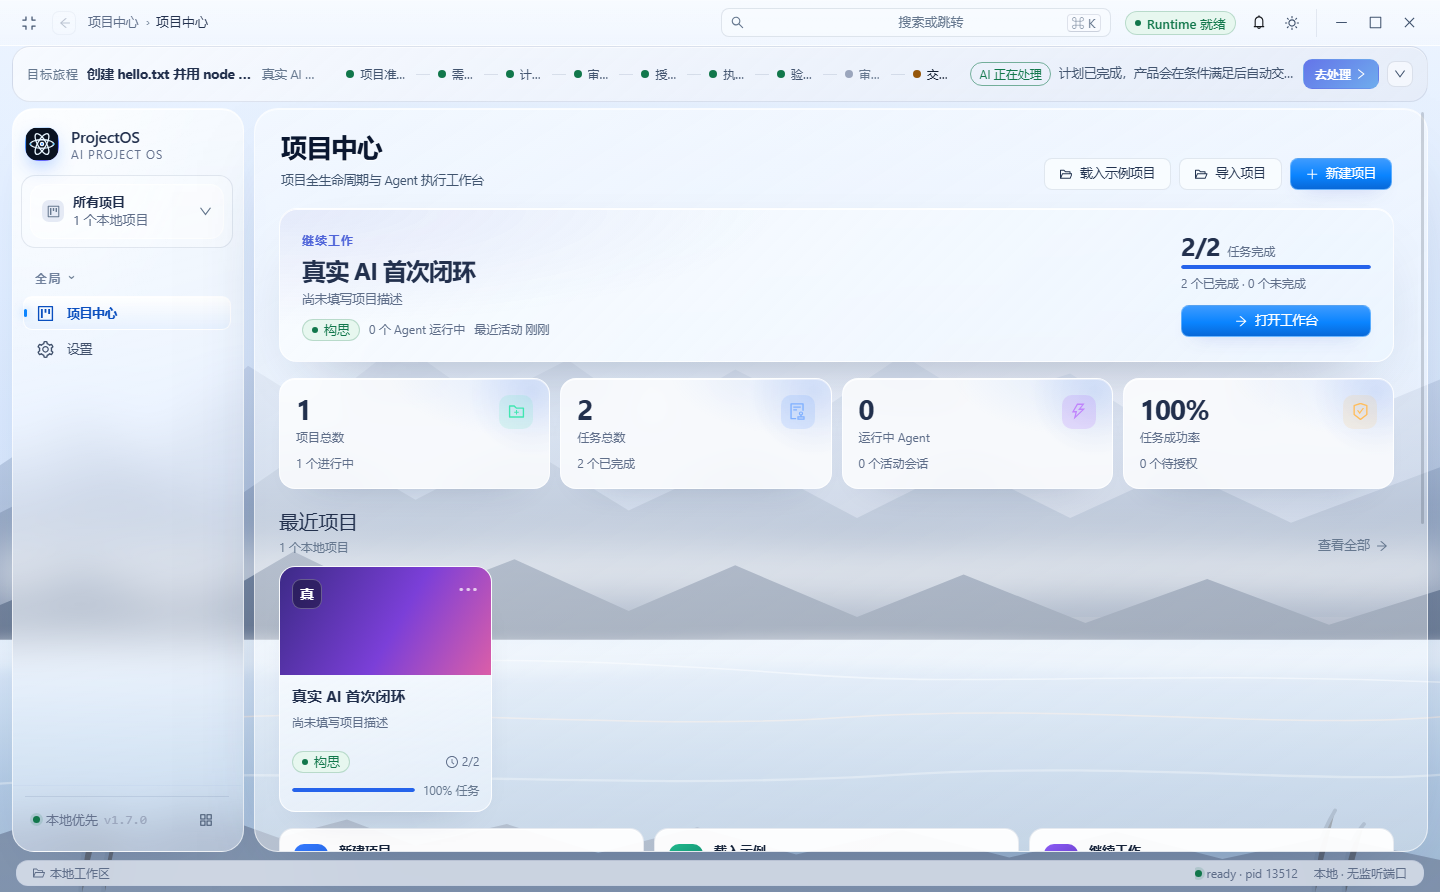
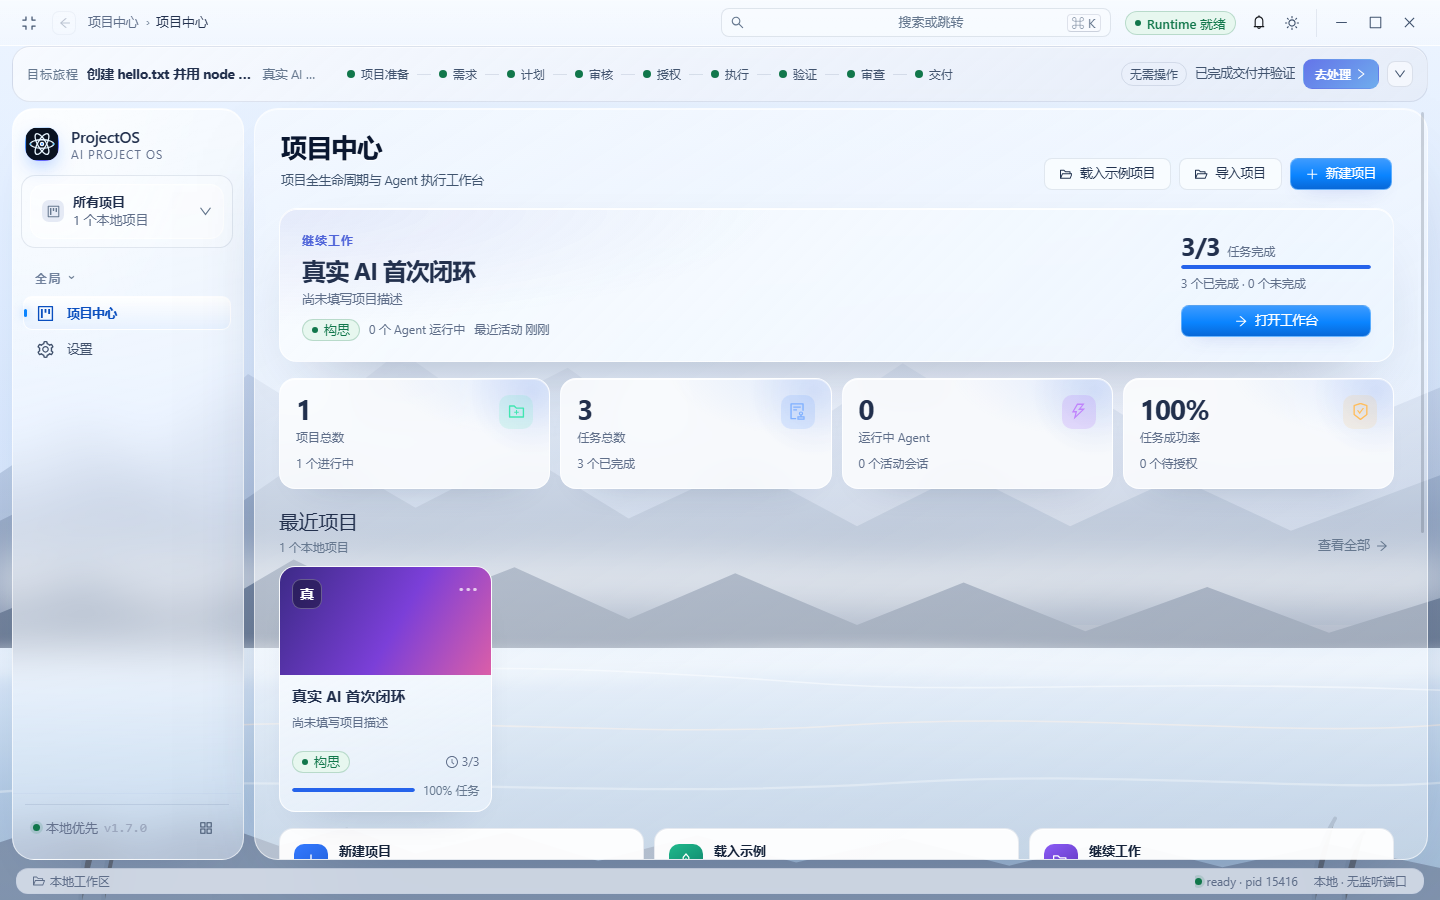
fix(journey): cache git readiness per project; first verified real delivery (ADR-0065)
Root cause of the interrupted delivery attempts: work.journey spawned a synchronous git rev-parse on every read (bar polls every 5s + event refreshes), starving the runtime event loop — pendingRequests 27→56, heartbeat misses, supervisor restart (ADR-0064). The check is now cached for 20s and skipped entirely once a worktree exists.

With that fix the real DeepSeek first-run chain completed end to end (PASS=20 FAIL=0): running → completed + node --test exit 0 + current review passed → deliveryStatus=verified, merge commit 8ced21b7d2975b85e169f902b569b0930619cd6f, delivery evidence art_01m63ka6cprrck428aczpds5pq, three runs (developer/tester/reviewer) and six real user approvals. Evidence in this commit: docs/adr/0065, docs/v2/p29-real-ai-timeline.json (stage timeline + final execution), docs/screenshots/p29-real-ai-journey.png (all nine stages done, 已完成交付并验证), updated evidence/addendum, planner expectations updated for the review task (ADR-0062).

diff --git a/apps/runtime/src/journey.ts b/apps/runtime/src/journey.ts
@@ -22,14 +22,41 @@ import type { PlanGrantService } from './plan-grant.js'
  * It never infers success from a plan's status, a task count or execution existence.
  */
 
+/**
+ * ADR-0065 — the journey projection must not spawn git on every request.
+ *
+ * Every journey read used to run a *synchronous* `git rev-parse`. The bar polls every 5s and also
+ * refreshes on business events, so during a run dozens of these reads queued: each one blocked the
+ * runtime event loop for a full process spawn (worse on Windows with AV scanning). The desktop log from
+ * a real attempt shows the consequence — `pendingRequests` 27 → 56 while heartbeats were missed and the
+ * supervisor restarted the runtime.
+ *
+ * The result is cached briefly; a workspace's "has a commit" state changes at most once (the baseline
+ * commit, ADR-0050), so a short TTL is enough and a commit cannot be missed for long.
+ */
+const GIT_HEAD_TTL_MS = 20_000
+const gitHeadCache = new Map<string, { value: boolean | null; at: number }>()
+
+export function resetJourneyGitCache(): void {
+  gitHeadCache.clear()
+}
+
 function gitHasCommit(rootPath: string): boolean | null {
-  if (!existsSync(join(rootPath, '.git'))) return null
-  try {
-    execFileSync('git', ['rev-parse', '--verify', 'HEAD'], { cwd: rootPath, encoding: 'utf8', stdio: 'pipe' })
-    return true
-  } catch {
-    return false
+  const cached = gitHeadCache.get(rootPath)
+  if (cached && Date.now() - cached.at < GIT_HEAD_TTL_MS) return cached.value
+  let value: boolean | null
+  if (!existsSync(join(rootPath, '.git'))) {
+    value = null
+  } else {
+    try {
+      execFileSync('git', ['rev-parse', '--verify', 'HEAD'], { cwd: rootPath, encoding: 'utf8', stdio: 'pipe' })
+      value = true
+    } catch {
+      value = false
+    }
   }
+  gitHeadCache.set(rootPath, { value, at: Date.now() })
+  return value
 }
 
 function selectPlan(store: SqliteStore, projectId: string): { plan: PlanDraft | null; kind: ProjectJourney['selection']['kind']; reason: string } {
@@ -124,7 +151,8 @@ export function projectJourney(input: {
     (execution?.status === 'paused' || execution?.status === 'failed' ? (humanItems.find((item) => item.kind === 'tool_approval') ?? null) : null)
   const approvalRef = toolApproval?.approvalId ?? toolApproval?.id ?? null
   const approvalExpired = Boolean(toolApproval?.stale)
-  const commit = gitHasCommit(project.rootPath)
+  // A plan with a worktree already passed the git-readiness question; skip the check entirely.
+  const commit = execution?.workspaceRef ? true : gitHasCommit(project.rootPath)
 
   const tasks = plan ? plan.createdTaskIds.map((taskId) => store.read.getTaskCard(taskId)).filter((card): card is NonNullable<typeof card> => Boolean(card)) : []
   const activeRun = (() => {

diff --git a/tests/planner.test.ts b/tests/planner.test.ts
@@ -151,8 +151,9 @@ describe('Phase 2B-1 AI Planner', () => {
     expect(draft.status).toBe('draft')
     expect(draft.generatedBy).toBe('provider')
     expect(draft.execution).toBeNull()
-    expect(draft.tasks).toHaveLength(3)
-    expect(draft.tasks.map((item) => item.key)).toEqual(['locate-button', 'apply-style', 'verify-style'])
+    expect(draft.tasks).toHaveLength(4)
+    expect(draft.tasks.some((task) => task.role === 'reviewer')).toBe(true)
+    expect(draft.tasks.map((item) => item.key)).toEqual(['locate-button', 'apply-style', 'verify-style', 'review'])
     expect(draft.tasks[1]!.dependsOn).toEqual(['locate-button'])
     expect(draft.tasks[0]!.requiredCapabilities).toEqual(['analyze', 'implement'])
     expect(draft.tasks.every((item) => Boolean(item.agentId) && !item.assignmentBlocked)).toBe(true)
@@ -244,8 +245,9 @@ describe('Phase 2B-1 AI Planner', () => {
       allowOverBudget: false,
     })
 
-    expect(draft.tasks).toHaveLength(5)
-    expect(draft.tasks.map((item) => item.role)).toEqual(['architect', 'developer', 'developer', 'developer', 'tester'])
+    expect(draft.tasks).toHaveLength(6)
+    expect(draft.tasks.some((task) => task.role === 'reviewer')).toBe(true)
+    expect(draft.tasks.map((item) => item.role)).toEqual(['architect', 'developer', 'developer', 'developer', 'tester', 'reviewer'])
     const parallel = draft.tasks.filter((item) => item.dependsOn.includes('scope-and-policy'))
     expect(parallel.map((item) => item.key)).toEqual(['data-model', 'api-guard'])
     expect(draft.tasks.find((item) => item.key === 'verify-rbac')?.dependsOn).toEqual(['data-model', 'frontend-admin'])
@@ -316,7 +318,8 @@ describe('Phase 2B-1 AI Planner', () => {
       allowOverBudget: false,
     })
 
-    expect(draft.tasks).toHaveLength(4)
+    expect(draft.tasks).toHaveLength(5)
+    expect(draft.tasks.some((task) => task.role === 'reviewer')).toBe(true)
     expect(draft.tasks[0]!.key).toBe('baseline')
     expect(draft.tasks[1]!.dependsOn).toContain('baseline')
     expect(draft.tasks[2]!.dependsOn).toContain('profile')

diff --git a/tests/p29-goal-journey.test.ts b/tests/p29-goal-journey.test.ts
@@ -2,13 +2,14 @@ import { afterEach, describe, expect, it } from 'vitest'
 import { now } from '@projectos/contracts'
 import { ActionCenter } from '../apps/runtime/src/action-center.js'
 import { PlanGrantService } from '../apps/runtime/src/plan-grant.js'
-import { projectJourney } from '../apps/runtime/src/journey.js'
+import { projectJourney, resetJourneyGitCache } from '../apps/runtime/src/journey.js'
 import { LifecycleService } from '../apps/runtime/src/lifecycle.js'
 import { createGitProject, logger, planWithTasks, setup } from './helpers/r1-fixture.js'
 
 const cleanups: Array<() => void> = []
 afterEach(() => {
   while (cleanups.length > 0) cleanups.pop()?.()
+  resetJourneyGitCache()
 })
 
 function task(key: string) {

diff --git a/docs/v2/evidence/p29-task1-task2-evidence.md b/docs/v2/evidence/p29-task1-task2-evidence.md
@@ -127,11 +127,27 @@ killing runtime {"reason":"heartbeat timeout"}
 - The window was offscreen in attempt 8, ruling out "the user closed it".
 - `pendingRequests` climbing 27 → 56 while no pong is processed proves the runtime **event loop was
   blocked for ≥30s**, not merely slow to write a pong.
-- ADR-0064 fixes the false-kill half (tolerate one miss, restart after two) and adds a policy unit test.
-- The blocking work itself is **OPEN**: profile the runtime around `agent run finished` / completion
-  evidence collection for synchronous git/sqlite/hash work on the main loop.
+- ADR-0064 fixed the false-kill half (tolerate one miss, restart after two) and added a policy unit test.
+- The blocking work was then found and fixed: **ADR-0065** — the journey projection spawned a synchronous
+  `git rev-parse` on every read (bar polls every 5s + event refreshes), which starved the loop. It is now
+  cached for 20s and skipped entirely once a worktree exists.
+- With that fix the same real scenario completed end to end (run 9, **PASS=20 FAIL=0**):
+  `running → completed + verify done + review done → delivery verified`, no heartbeat misses, six real
+  approvals, three runs (developer, tester, reviewer).
 
-State at the end of this evidence update: `deliveryStatus=verified` still **not reached**; the business
-gates (approval → review artifact → merge → post-merge verify) were never exercised to completion because
-the runtime restarted first. No claim of delivery closure is made.
+### Verified delivery (final)
+
+| Fact | Value |
+|---|---|
+| deliveryStatus | `verified` |
+| merge commit | `8ced21b7d2975b85e169f902b569b0930619cd6f` |
+| mergedAt | 1793269764463 |
+| delivery evidence artifact | `art_01m63ka6cprrck428aczpds5pq` |
+| verification command | `node --test --test-reporter=tap` (exit 0) |
+| review | 当前内容已通过审查 (`done`) |
+| runs | 3 (`run_…pssy…`, `run_…tks4…`, `run_…8hk1…`) |
+| approvals (real user decisions) | 6, all recorded with ids |
+| journey stages | all nine `done`; next action “已完成交付并验证” |
+| evidence files | `docs/v2/p29-real-ai-timeline.json`, `docs/screenshots/p29-real-ai-journey.png` |
+
 

diff --git a/docs/adr/0065-journey-must-not-spawn-git-per-read.md b/docs/adr/0065-journey-must-not-spawn-git-per-read.md
@@ -1,0 +1,36 @@
+# ADR-0065 — The journey projection must not spawn git on every read
+
+- Status: Accepted (fixes the stall from ADR-0064)
+- Related: ADR-0064 (heartbeat tolerance and the stall), ADR-0053 (journey), ADR-0050 (baseline commit)
+
+## Context
+
+ADR-0064 recorded a runtime stall: `pendingRequests` grew 27 → 56 while heartbeats were missed and the
+supervisor restarted the runtime, interrupting three real delivery attempts. The journey projection was
+spawning **synchronous** `git rev-parse --verify HEAD` on every `work.journey` read, and the bar polls every
+5s plus refreshes on business events. During a run these reads queued; each blocked the event loop for a
+full process spawn (worse on Windows with AV scanning).
+
+## Decision
+
+1. `gitHasCommit(root)` is cached for 20s per project root; `resetJourneyGitCache()` exists for tests.
+   A workspace's "has a commit" state changes at most once (the ADR-0050 baseline commit), so the cache
+   cannot hide a real transition for long.
+2. When the plan execution already has a `workspaceRef`, the git question is answered without spawning at
+   all (`commit = true`): the worktree proves a commit exists.
+
+## Verification
+
+- `tests/p29-goal-journey.test.ts` still passes (6 tests) and resets the cache between cases.
+- Real DeepSeek delivery attempt with the fix (run 9): **PASS=20 FAIL=0**, no heartbeat misses in the
+  desktop log, and the chain completed — plan running → completed + verify done + review done →
+  **delivery `verified`**, merge commit `8ced21b7d2975b85e169f902b569b0930619cd6f`, delivery evidence
+  `art_01m63ka6cprrck428aczpds5pq`, three runs (developer, tester, reviewer) and six real approvals.
+- Timeline and stage facts: `docs/v2/p29-real-ai-timeline.json`;
+  screenshot `docs/screenshots/p29-real-ai-journey.png` (all nine stages done, “已完成交付并验证”).
+
+## Consequences
+
+- The journey bar is cheap enough to poll from every page.
+- A genuine runtime hang still restarts after two missed pongs (ADR-0064), and the grace path logs the
+  in-flight request count.
